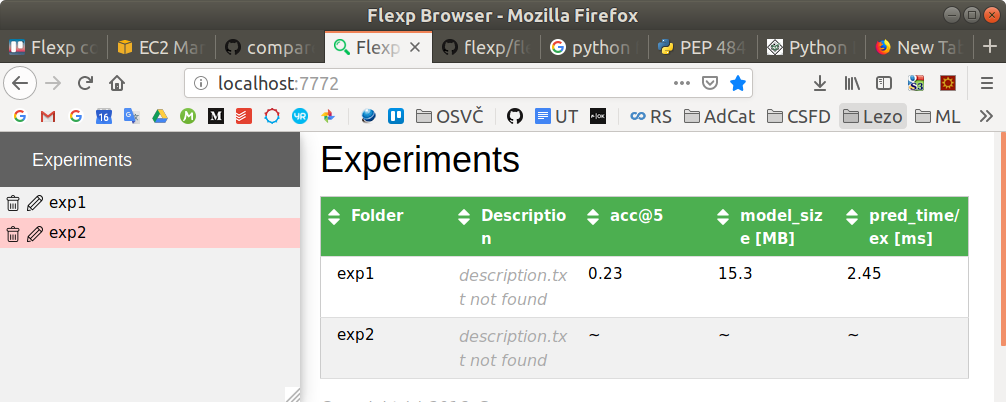
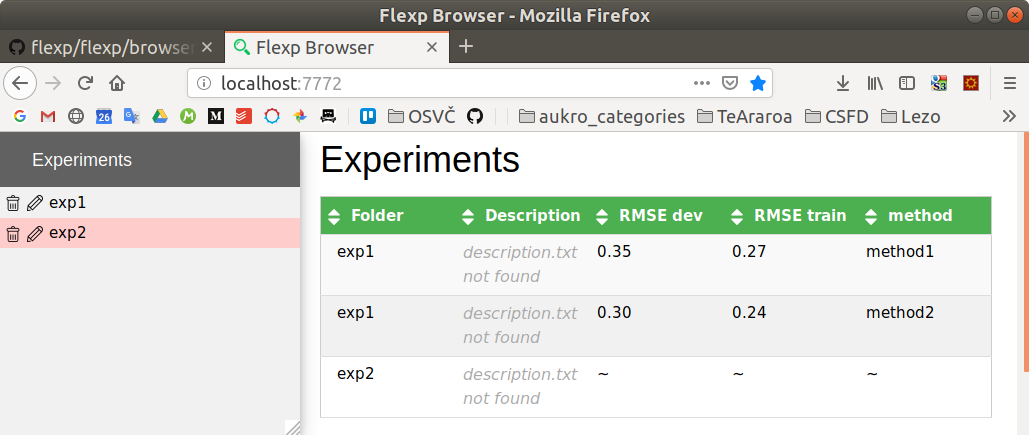
Change parsing metrics.csv to show all rows in flexp browser

diff --git a/flexp/browser/browser.py b/flexp/browser/browser.py
@@ -11,6 +11,7 @@ from __future__ import absolute_import
 from __future__ import print_function
 from __future__ import unicode_literals
 
+import logging
 import os
 import os.path as path
 import re
@@ -44,19 +45,29 @@ default_html_chain = (
 
 def default_get_metrics(file_path):
     """
-    Parse csv file, skip first row, then uses
-    0th column as a metric names and 1st column as metric values
+    Example metrics.csv:
+    method,metric 1, metric 2
+    method_1,0.1,0.2
+    method_2,0.2,0.3
+
+    Returns:
+    [
+        {"method", "method_1", "metric 1": 0.1, "metric 2": 0.2},
+        {"method", "method_2", "metric 1": 0.2, "metric 2": 0.3},
+    ]
+
     :param str file_path: Path to a file with metrics
-    :return dict[str, Any]:
+    :return list[dict[str, Any]]:
     """
     reader = CsvToHtml().iterate_csv(file_path)
-    next(reader)  # Skip header
+    metric_names = next(reader)
 
-    # filter out early_termination
-    # and take Oth col as metric_name and 1st col as metric_val
-    metrics = {row[0]: row[1] for row in reader}
+    metrics_list = []
+    for metric_values in reader:
+        metrics_dict = dict(zip(metric_names, metric_values))
+        metrics_list.append(metrics_dict)
 
-    return metrics
+    return metrics_list
 
 
 def run(port=7777, chain=default_html_chain, get_metrics_fcn=default_get_metrics, metrics_file="metrics.csv"):
@@ -65,7 +76,7 @@ def run(port=7777, chain=default_html_chain, get_metrics_fcn=default_get_metrics
     Allows reading main metrics from all experiments and show them in experiment list.
     :param int port: Port on which to start flexp browser
     :param list[ToHtml]|ToHtml chain: List of ToHtml instances that defines what to print
-    :param (Callable[str]) -> dict[str, Any] get_metrics_fcn: Function that takes filename of a file with
+    :param (Callable[str]) -> list[dict[str, Any]] get_metrics_fcn: Function that takes filename of a file with
     metrics and return dict[metric_name, value].
     :param str metrics_file: Filename in each experiment dir which contains metrics values.
     """
@@ -74,8 +85,12 @@ def run(port=7777, chain=default_html_chain, get_metrics_fcn=default_get_metrics
     if isinstance(chain, ToHtml):
         chain = [chain]
 
+    # handle wrong return type and expetions in get_metrics_fcn
+    get_metrics_fcn = return_type_list_of_dicts(get_metrics_fcn, return_on_fail=[{}])
+    get_metrics_fcn = exception_safe(get_metrics_fcn, return_on_exception=[{}])
+
     main_handler_params = {
-        "get_metrics_fcn": exception_safe(get_metrics_fcn, return_on_exception={}),
+        "get_metrics_fcn": get_metrics_fcn,
         "metrics_file": metrics_file,
         "experiments_folder": os.getcwd(),
         "html_chain": Chain(chain),
@@ -265,7 +280,6 @@ class AjaxHandler(tornado.web.RequestHandler):
 
         if action == "rename_folder":
             new_name = self.get_argument('new_name')
-            # print(action, value, new_name)
             folder = os.path.join(self.experiments_folder, value)
             new_folder = os.path.join(self.experiments_folder, new_name)
             if os.path.exists(folder) and not os.path.exists(new_folder) and "/" not in value and "/" not in new_name:
@@ -283,7 +297,7 @@ class AjaxHandler(tornado.web.RequestHandler):
 def html_table(base_dir, get_metrics_fcn, metrics_file):
     """Construct a html table of all experiment folders with description.
     :param base_dir: parent folder in which to look for an experiment folders
-    :param (Callable[str]) -> dict[str, Any] get_metrics_fcn: Function that takes filename of a file with
+    :param (Callable[str]) -> list[dict[str, Any]] get_metrics_fcn: Function that takes filename of a file with
     metrics and return dict[metric_name, value].
     :param str metrics_file: Filename in each experiment dir which contains metrics values.
     :return: {string}
@@ -311,13 +325,8 @@ def html_table(base_dir, get_metrics_fcn, metrics_file):
         </tr>
     """
 
-    # Get all metrics
-    metrics_names = set()
-    for exp_dir, exp_path, date_changed in list_experiments(base_dir):
-        metrics_file_path = os.path.join(exp_path, metrics_file)
-        exp_metric_names = get_metrics_fcn(metrics_file_path).keys()
-        metrics_names |= set(exp_metric_names)
-    metrics_names = sorted(metrics_names)
+    # Get all metrics names
+    metrics_names = get_metrics_names(base_dir, get_metrics_fcn, metrics_file)
 
     # Update table_template
     metric_names_tpl = ["<th>{}</th>".format(m) for m in metrics_names]
@@ -334,23 +343,35 @@ def html_table(base_dir, get_metrics_fcn, metrics_file):
     for exp_dir, exp_path, date_changed in list_experiments(base_dir):
         # Load metrics
         metrics_file_path = os.path.join(exp_path, metrics_file)
-        metrics = get_metrics_fcn(metrics_file_path)
+        metrics_rows = get_metrics_fcn(metrics_file_path)
 
-        # remove nonalpha (caused problems with **metrics)
-        metrics = {re.sub(r'\W+', '', k): v for k, v in metrics.items()}
+        for metrics in metrics_rows:
+            # remove nonalpha (caused problems with **metrics)
+            metrics = {re.sub(r'\W+', '', k): v for k, v in metrics.items()}
 
-        row = formatter.format(
-            row_tpl,
-            exp_dir=exp_dir,
-            description=DescriptionToHtml.get_description_html(exp_path),
-            **metrics
-        )
-        rows.append(row)
+            row = formatter.format(
+                row_tpl,
+                exp_dir=exp_dir,
+                description=DescriptionToHtml.get_description_html(exp_path),
+                **metrics
+            )
+            rows.append(row)
 
     # Fill rows in the table template
     table = table_tpl.format(rows="\n".join(rows))
 
     return table
+
+
+def get_metrics_names(base_dir, get_metrics_fcn, metrics_file):
+    metrics_names = set()
+    for exp_dir, exp_path, date_changed in list_experiments(base_dir):
+        metrics_file_path = os.path.join(exp_path, metrics_file)
+        for metrics in get_metrics_fcn(metrics_file_path):
+            exp_metric_names = metrics.keys()
+            metrics_names |= set(exp_metric_names)
+    metrics_names = sorted(metrics_names)
+    return metrics_names
 
 
 def html_navigation(base_dir, selected_experiment=None):
@@ -416,9 +437,6 @@ def html_anchor_navigation(base_dir, experiment_dir, modules):
     ))
 
 
-# , '{exp_dir}'
-
-
 def list_experiments(base_dir):
     """Return list of tuples(experiment_directory, experiment_absolute_path).
 
@@ -429,6 +447,22 @@ def list_experiments(base_dir):
                    for exp_dir in os.listdir(base_dir)
                    if path.isdir(path.join(base_dir, exp_dir))],
                   key=lambda x: x[2], reverse=True)
+
+
+def return_type_list_of_dicts(fcn, return_on_fail=None):
+    def wrapper(*args, **kwargs):
+        try:
+            out = fcn(*args, **kwargs)
+            assert isinstance(out, list), type(out)
+            assert len(out) > 0, len(out)
+            for item in out:
+                assert isinstance(item, dict), type(item)
+            return out
+        except Exception as e:
+            logging.warning("Exception in {}: {}".format(fcn.__name__, e))
+            return return_on_fail
+
+    return wrapper
 
 
 class NoCacheStaticHandler(tornado.web.StaticFileHandler):

diff --git a/examples/experiments/browse_metrics.py b/examples/experiments/browse_metrics.py
@@ -2,6 +2,8 @@
 This will run flexp_browser with 8 sections in menu: "Flexp info", "CSV files", "Experiment info, description",
 "Histograms", "Confusion matrices", etc.
 """
+import sys
+
 import click
 import logging
 
@@ -17,19 +19,42 @@ setup_logging("info")
 
 
 def get_metrics(file_path):
+    """
+    Returns row from metrics.csv with the lowest `RMSE dev` value
+    Example metrics.csv:
+    method;RMSE dev;RMSE train
+    method1;0.35;0.27
+    method2;0.30;0.24
+
+    Returns:
+    [
+        {"method", "method_2", "RMSE dev": 0.30, "RMSE train": 0.24},
+    ]
+
+    :param str file_path: Path to a file with metrics
+    :return list[dict[str, Any]]:
+    """
     reader = CsvToHtml().iterate_csv(file_path)
+    metric_names = next(reader)
 
-    metric_col = 1
-    metric_name = next(reader)[metric_col]
-    metric_val = min([row[metric_col] for row in reader])
+    metric_name = "RMSE dev"
+    min_value = float("inf")
 
-    return {metric_name: metric_val}
+    metrics_row_to_return = None
+    for metric_values in reader:
+        metrics_dict = dict(zip(metric_names, metric_values))
+        value = float(metrics_dict.get(metric_name, min_value))
+        if value <= min_value:
+            metrics_row_to_return = metrics_dict
+            min_value = value
+
+    return [metrics_row_to_return]
 
 
 @click.command()
 @click.option('--port', '-p', default=7777, help='Port')
 def main(port):
-    browser.run(port=port, get_metrics_fcn=get_metrics, metrics_file="other_metrics.csv")
+    browser.run(port=port, get_metrics_fcn=get_metrics, metrics_file="metrics.csv")
 
 
 if __name__ == "__main__":

diff --git a/flexp/browser/README.md b/flexp/browser/README.md
@@ -50,10 +50,12 @@ if experiment folders contains `metrics.csv`.
 
 ![Flexp-browser experiments preview](/browser_experiments.png)
 
-This file is parsed by default following way: 
- - first row (header) is skipped
- - first column is used as metric names
- - second column is used as metric values
+This file is expected to be in following format: 
+```text
+method;metric 1;metric X
+method1;0.35;0.27
+method2;0.30;0.24
+```
 
 If your `metrics_filename` or it's structure is different, you can use own parser
 by providing `metrics_filename` and/or `get_metrics_fcn`. 
